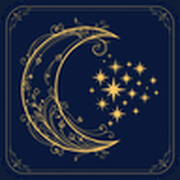
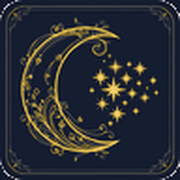
Batch 6.2: brand assets to Velu's 2026-11-16 palette
Logo and webp recoloured (shape locked, hue only): crescent now
bright #d4af37 gold, tile now #141b2e navy. PIL hue census: all
warm pixels at 45 degrees (the new gold), zero at the bronze hue.
icon.svg: tile #0f1424, crescent #d4af37, stars #f4d03f. Full icon
set regenerated from the new logo (favicon 16/32 + .ico with
transparent rounded corners, apple-touch 180, icon 192/512 PNG +
WebP, maskable 192/512 PNG + WebP at 80 percent on a #141b2e tile).
og-image.jpg rebuilt from the live 5.2 design (logo + SORTES +
hero headline) recoloured to the new palette, bumped to ?v=4 in
layout.tsx, seo.ts, not-found.tsx and contact/page.tsx (the last
two were stale at ?v=2). Pack thumbnails recoloured too: the
celestial-treasury arch read bronze, now bright gold; hero-bg
reads navy, left alone.

Note: Fable's plan pointed at build-og-image.py, but that script
builds the older ornate design with the Fool card, not the live
5.2 design. Recolouring the live design keeps the design Velu
approved; running the old script would have reverted it.

Gates: tsc 0, lint:gate PASS (34 warnings = baseline), build OK,
vitest 1004 passed, astryx doctor 19 pass / 3 warn (pre-existing)
0 fail, Lighthouse accessibility 100 on all 8 pages. Playwright:
header logo renders, favicon loads, all 15 manifest/icon/og URLs
200, og:image and twitter:image point at ?v=4.

D2 approved by Velu 2026-11-16.

diff --git a/src/lib/__tests__/phase5-batch52-icons.test.ts b/src/lib/__tests__/phase5-batch52-icons.test.ts
@@ -30,15 +30,18 @@ describe("Phase 5 Batch 5.2 favicon and icons", () => {
 
   it("the icon SVG uses the new brand colours, not the old gold", () => {
     const svg = src("public/icon.svg");
-    expect(svg).toContain("#b9975b");
-    expect(svg).toContain("#0a1526");
-    expect(svg).not.toContain("#d4af37");
+    expect(svg).toContain("#d4af37");
+    expect(svg).toContain("#f4d03f");
+    expect(svg).toContain("#0f1424");
+    expect(svg).not.toContain("#b9975b");
+    expect(svg).not.toContain("#d6be8a");
+    expect(svg).not.toContain("#0a1526");
     expect(svg).not.toContain("#0a0e1a");
   });
 
   it("layout references the new og-image and the icon files", () => {
     const layout = src("src/app/layout.tsx");
-    expect(layout).toContain("/og-image.jpg?v=3");
+    expect(layout).toContain("/og-image.jpg?v=4");
     expect(layout).toContain("/favicon-16x16.png");
     expect(layout).toContain("/favicon-32x32.png");
     expect(layout).toContain("/apple-touch-icon.png");

diff --git a/src/app/contact/page.tsx b/src/app/contact/page.tsx
@@ -12,14 +12,14 @@ export const metadata: Metadata = {
     description:
       "Contact Sortes by email for help with Oracles, readings, or your account. We aim to reply within two business days. Include a few details so we can help.",
     url: `${SITE_URL}/contact`,
-    images: [{ url: "/og-image.jpg?v=2", width: 1200, height: 630, alt: "Sortes" }],
+    images: [{ url: "/og-image.jpg?v=4", width: 1200, height: 630, alt: "Sortes" }],
   },
   twitter: {
     card: "summary_large_image",
     title: "Contact Sortes",
     description:
       "Contact Sortes by email for help with Oracles, readings, or your account. We aim to reply within two business days. Include a few details so we can help.",
-    images: ["/og-image.jpg?v=2"],
+    images: ["/og-image.jpg?v=4"],
   },
 };
 

diff --git a/src/app/not-found.tsx b/src/app/not-found.tsx
@@ -25,14 +25,14 @@ export const metadata: Metadata = {
     title: "Page not found",
     description:
       "That Sortes page does not exist. Try a daily card, a reading, the deck, a birth chart, or a guide instead.",
-    images: [{ url: "/og-image.jpg?v=2", width: 1200, height: 630, alt: "Sortes" }],
+    images: [{ url: "/og-image.jpg?v=4", width: 1200, height: 630, alt: "Sortes" }],
   },
   twitter: {
     card: "summary_large_image",
     title: "Page not found",
     description:
       "That Sortes page does not exist. Try a daily card, a reading, the deck, a birth chart, or a guide instead.",
-    images: ["/og-image.jpg?v=2"],
+    images: ["/og-image.jpg?v=4"],
   },
 };
 

diff --git a/src/lib/__tests__/batch4-wiring.test.ts b/src/lib/__tests__/batch4-wiring.test.ts
@@ -42,10 +42,10 @@ describe("Batch 4a wiring", () => {
   });
 
   it("the shared OG image URL is versioned so scrapers re-fetch it", () => {
-    // Batch 4c: the old og-image.jpg was an empty frame cached by
-    // scrapers; ?v=2 forces a re-scrape of the new image.
-    expect(src("src/lib/seo.ts")).toContain('"/og-image.jpg?v=3"');
-    expect(src("src/app/layout.tsx")).toContain('"/og-image.jpg?v=3"');
+    // Batch 6.2: the og-image was recoloured to the 2026-11-16
+    // palette; ?v=4 forces a re-scrape of the new image.
+    expect(src("src/lib/seo.ts")).toContain('"/og-image.jpg?v=4"');
+    expect(src("src/app/layout.tsx")).toContain('"/og-image.jpg?v=4"');
   });
 });
 

diff --git a/src/app/layout.tsx b/src/app/layout.tsx
@@ -59,13 +59,13 @@ export const metadata: Metadata = {
     siteName: APP_NAME,
     title: "Free tarot reading online, with AI interpretation",
     description: SITE_DESCRIPTION,
-    images: [{ url: "/og-image.jpg?v=3", width: 1200, height: 630, alt: APP_NAME }],
+    images: [{ url: "/og-image.jpg?v=4", width: 1200, height: 630, alt: APP_NAME }],
   },
   twitter: {
     card: "summary_large_image",
     title: "Free tarot reading online, with AI interpretation",
     description: SITE_DESCRIPTION,
-    images: ["/og-image.jpg?v=3"],
+    images: ["/og-image.jpg?v=4"],
   },
   icons: {
     icon: [

diff --git a/src/lib/seo.ts b/src/lib/seo.ts
@@ -20,7 +20,7 @@ export function pageSocial({
   // Batch 4c: ?v=3 cache-buster. The old og-image.jpg was an empty
   // frame live for ~6 weeks; scrapers that cached it by URL would
   // keep showing the blank frame. A new URL forces a re-scrape.
-  const img = image ?? "/og-image.jpg?v=3";
+  const img = image ?? "/og-image.jpg?v=4";
   return {
     openGraph: {
       type: "website",
